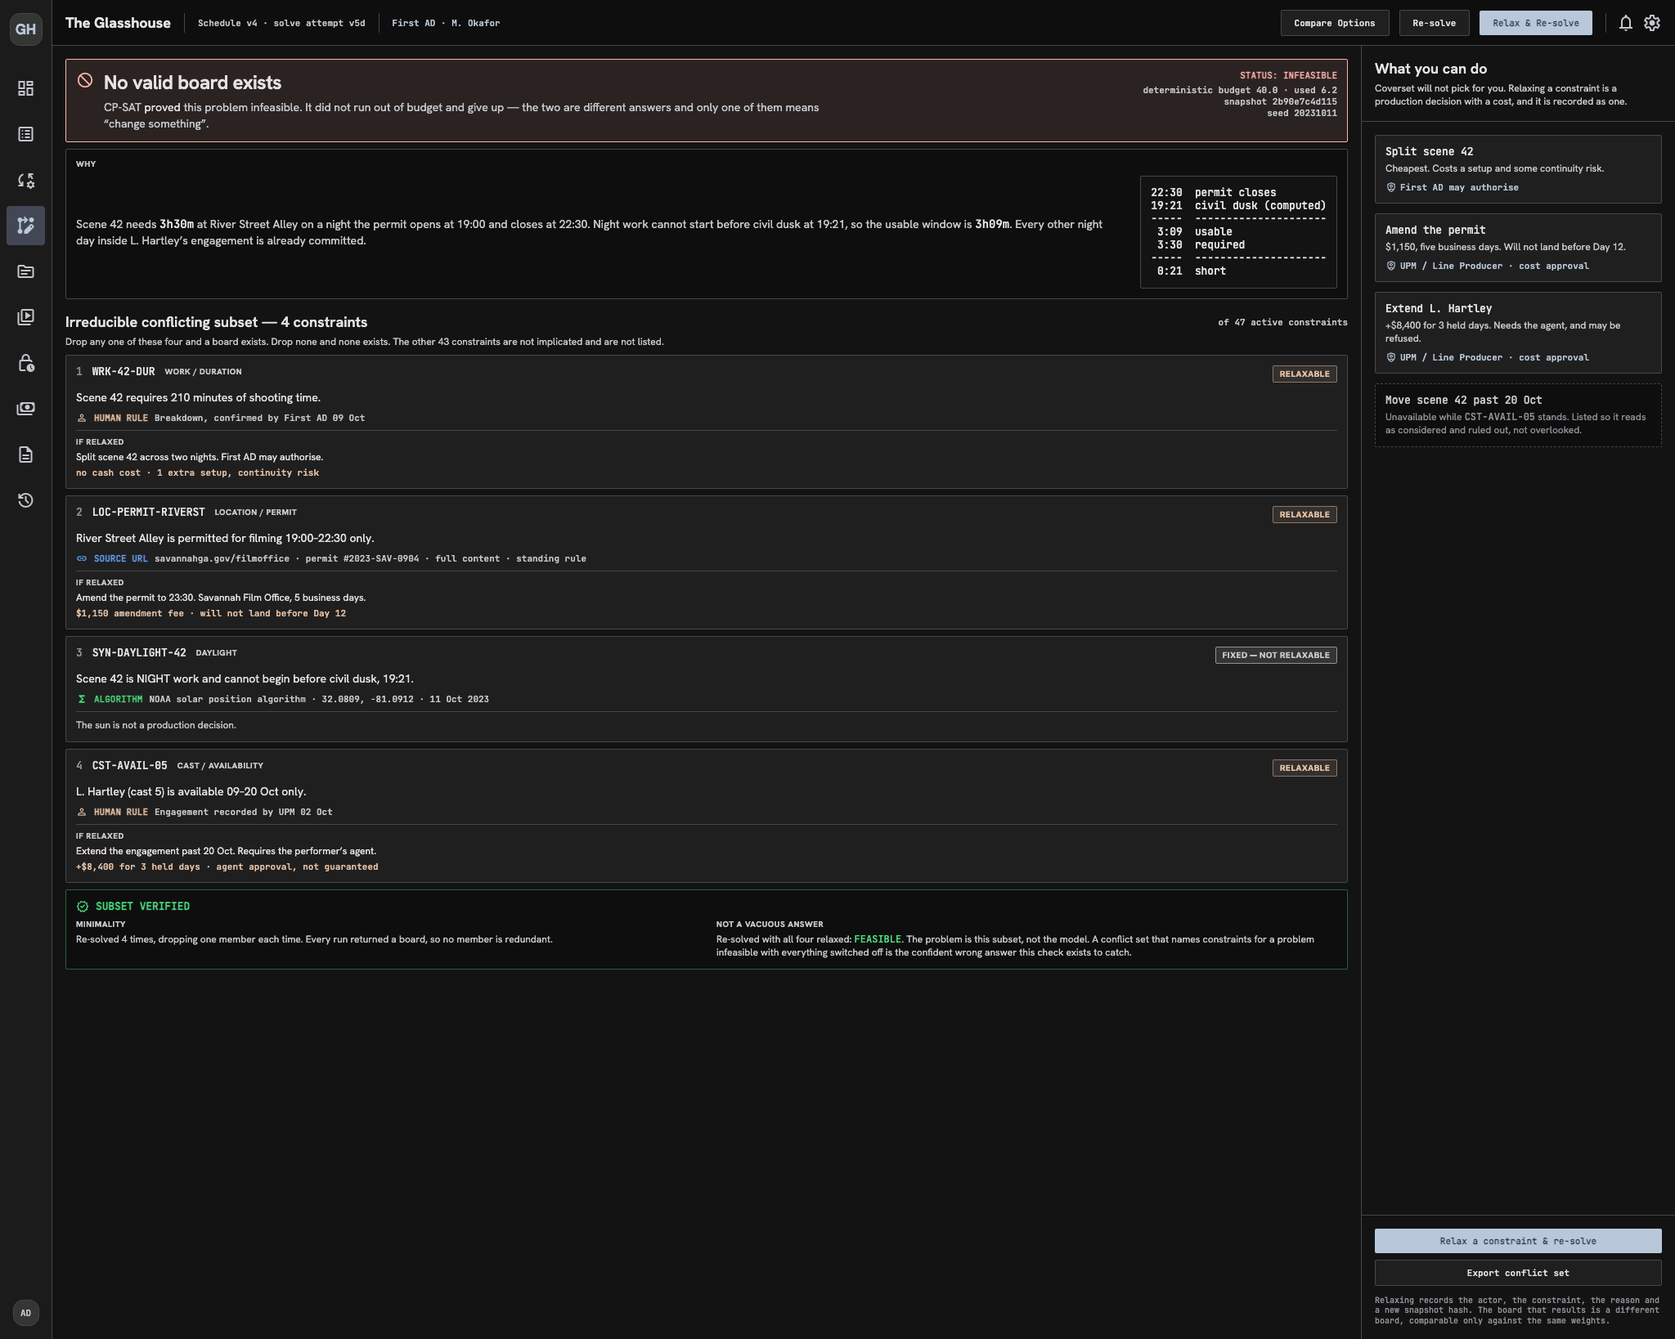
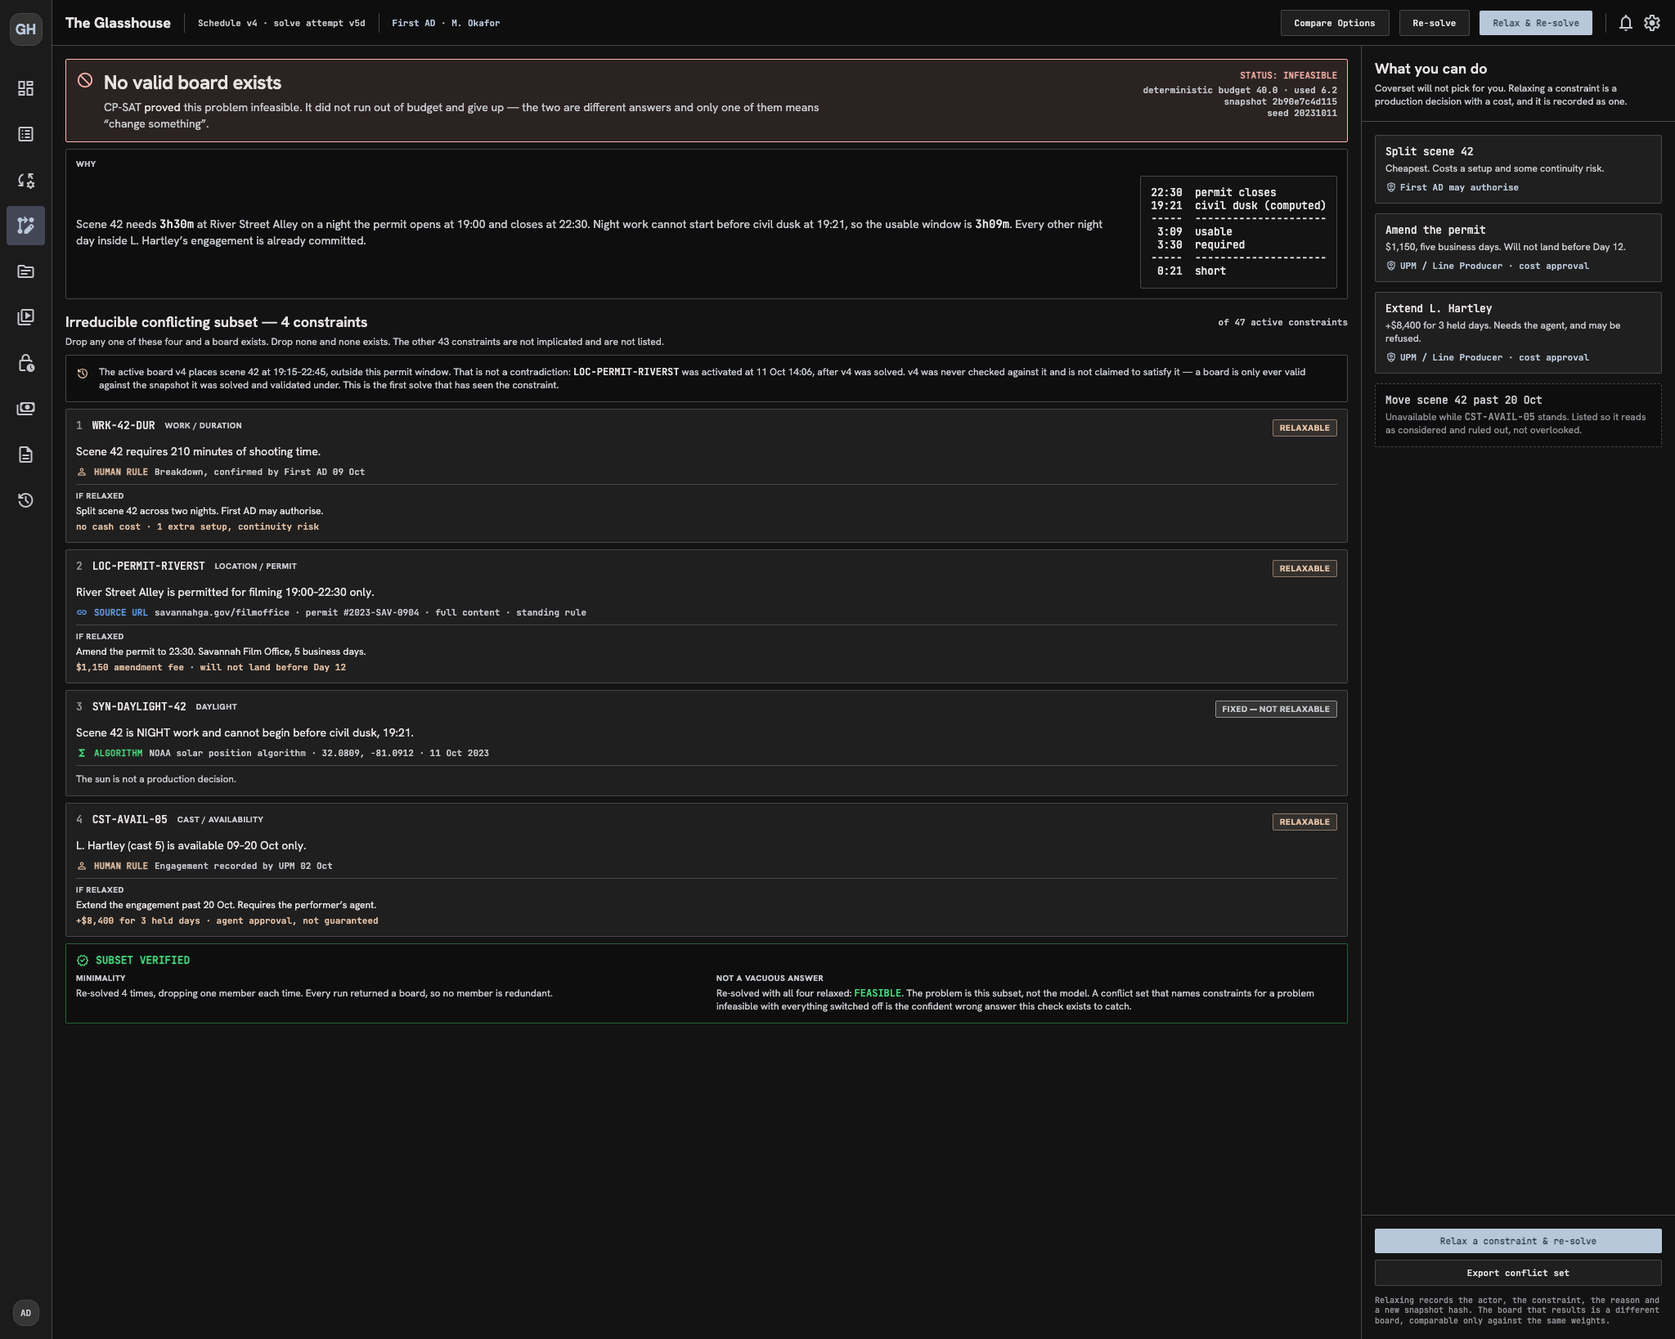
Fix three UI reference defects and close the gate's blind spot
Review of the v4 baseline found three problems. Each was reproduced before
anything was changed, and two were larger than reported.

**Clipping on 05-coverage-pickup was not narrow fields.** `SHOT TYPE` and
`COMPLETE BY` were cut off, `PRIORITY` was clipped too, and the inputs were
overflowing past the 400px panel edge entirely. Grid children default to
`min-width: auto`, so each input's intrinsic width forced its column wider than
the panel could hold and `w-full` never constrained anything. Fixed at that root
rather than by shortening the values, which would have been layout dictating
what the data may say: `SCENE` takes a 64px column so `SHOT TYPE` gets the rest,
and `COMPLETE BY` moves to its own full-width row, because three equal columns
cannot hold a twelve-character label, a dropdown and a nineteen-character date.

**The same select clipping exists on 02-scene-breakdown-review**, which the
review did not mention -- `Time of Day` rendered `DAY` cut off at the baseline.
A fixed `h-[28px]` is shorter than a native select's own metrics. Both are now
`h-[30px]` with an explicit small line-height, keeping the native chevron.

**11-cost-approval read "Board v5c is not schedulable"**, which is solver
vocabulary on an approval gate. That board is perfectly schedulable and merely
unapproved -- the same header says `report PASS` -- so the headline told a UPM
the arithmetic had failed when what was actually needed was their signature. It
[…]

diff --git a/docs/ui-sling/05-coverage-pickup.v4.html b/docs/ui-sling/05-coverage-pickup.v4.html
@@ -327,12 +327,12 @@
 <div class="bg-surface border border-[#5c63b8]/40 rounded-sm p-2">
 <div class="font-data-mono-sm text-data-mono-sm text-on-surface-variant leading-tight">This is <span class="text-on-surface">NIGHT</span> work. It cannot be placed on a day shoot &mdash; the replan must find a night day or add one.</div>
 </div>
-<div class="grid grid-cols-2 gap-4">
-<div class="space-y-1">
+<div class="grid grid-cols-[64px_minmax(0,1fr)] gap-3">
+<div class="space-y-1 min-w-0">
 <label class="font-label-caps text-label-caps text-on-surface-variant">SCENE</label>
 <input class="w-full h-[28px] bg-surface border border-outline-variant text-on-surface font-data-mono-sm px-2 focus:ring-1 focus:ring-primary focus:border-primary outline-none rounded-sm" disabled="" type="text" value="42"/>
 </div>
-<div class="space-y-1">
+<div class="space-y-1 min-w-0">
 <label class="font-label-caps text-label-caps text-on-surface-variant">SHOT TYPE</label>
 <input class="w-full h-[28px] bg-surface border border-outline-variant text-on-surface font-data-mono-sm px-2 focus:ring-1 focus:ring-primary focus:border-primary outline-none rounded-sm" type="text" value="Close-up (Reaction)"/>
 </div>
@@ -345,20 +345,21 @@
 <label class="font-label-caps text-label-caps text-on-surface-variant">LOCATION</label>
 <input class="w-full h-[28px] bg-surface border border-outline-variant text-on-surface font-data-mono-sm px-2 focus:ring-1 focus:ring-primary focus:border-primary outline-none rounded-sm" type="text" value="River Street Alley (Exterior)"/>
 </div>
-<div class="grid grid-cols-3 gap-4 border-t border-outline-variant pt-4 mt-4">
-<div class="space-y-1">
+<div class="grid grid-cols-2 gap-4 border-t border-outline-variant pt-4 mt-4">
+<div class="space-y-1 min-w-0">
 <label class="font-label-caps text-label-caps text-on-surface-variant">EST DURATION</label>
 <input class="w-full h-[28px] bg-surface border border-outline-variant text-on-surface font-data-mono-sm px-2 focus:ring-1 focus:ring-primary focus:border-primary outline-none rounded-sm" type="text" value="0:45"/>
 </div>
-<div class="space-y-1">
+<div class="space-y-1 min-w-0">
 <label class="font-label-caps text-label-caps text-on-surface-variant">PRIORITY</label>
-<select class="w-full h-[28px] bg-[#2a1414] border border-[#b82e2e] text-[#ff8a8a] font-data-mono-sm px-2 focus:ring-1 focus:ring-primary outline-none rounded-sm">
+<select class="w-full h-[30px] text-[11px] leading-none bg-[#2a1414] border border-[#b82e2e] text-[#ff8a8a] font-data-mono-sm px-2 focus:ring-1 focus:ring-primary outline-none rounded-sm">
 <option selected="">HIGH</option>
 <option>MEDIUM</option>
 <option>LOW</option>
 </select>
 </div>
-<div class="space-y-1">
+</div>
+<div class="space-y-1 min-w-0 mt-4">
 <label class="font-label-caps text-label-caps text-on-surface-variant">COMPLETE BY</label>
 <input class="w-full h-[28px] bg-surface border border-outline-variant text-on-surface font-data-mono-sm px-2 focus:ring-1 focus:ring-primary focus:border-primary outline-none rounded-sm" type="text" value="Day 12 (Wed 18 Oct)"/>
 </div>

diff --git a/docs/ui-sling/08-infeasible-conflict.v4.html b/docs/ui-sling/08-infeasible-conflict.v4.html
@@ -238,6 +238,10 @@ Scene 42 needs <span class="text-on-surface font-data-mono">3h30m</span> at Rive
 <span class="font-data-mono-sm text-data-mono-sm text-on-surface-variant">of 47 active constraints</span>
 </div>
 <p class="font-body-sm text-body-sm text-on-surface-variant -mt-1">Drop any one of these four and a board exists. Drop none and none exists. The other 43 constraints are not implicated and are not listed.</p>
+<div class="bg-surface-container-lowest border border-outline-variant rounded p-card_padding flex items-start gap-3">
+<span class="material-symbols-outlined text-[#e2c0a4] text-[16px] mt-0.5">history</span>
+<p class="font-body-sm text-body-sm text-on-surface-variant">The active board v4 places scene 42 at 19:15&ndash;22:45, outside this permit window. That is not a contradiction: <span class="font-data-mono text-on-surface">LOC-PERMIT-RIVERST</span> was activated at 11 Oct 14:06, after v4 was solved. v4 was never checked against it and is not claimed to satisfy it &mdash; a board is only ever valid against the snapshot it was solved and validated under. This is the first solve that has seen the constraint.</p>
+</div>
 
 <div class="bg-surface-container border border-outline-variant rounded p-card_padding">
 <div class="flex items-start justify-between gap-4 mb-2">

diff --git a/docs/ui-sling/11-cost-approval.v4.html b/docs/ui-sling/11-cost-approval.v4.html
@@ -203,7 +203,7 @@
 <div class="flex items-start gap-3">
 <span class="material-symbols-outlined text-[#f59e0b] text-[22px] mt-0.5">pending_actions</span>
 <div>
-<h1 class="font-headline-lg text-headline-lg text-on-surface">Board v5c is not schedulable</h1>
+<h1 class="font-headline-lg text-headline-lg text-on-surface">Board v5c cannot be selected yet</h1>
 <p class="font-body-md text-body-md text-on-surface-variant mt-1 max-w-4xl">It adds a shoot day, so it stays <span class="font-data-mono text-on-surface">pending_cost_approval</span> until a UPM or Line Producer records a decision. No call sheet can issue from it, and the monitor will not select it.</p>
 </div>
 </div>

diff --git a/docs/ui-sling/02-scene-breakdown-review.v4.html b/docs/ui-sling/02-scene-breakdown-review.v4.html
@@ -366,7 +366,7 @@
 <div class="grid grid-cols-2 gap-3">
 <div class="flex flex-col gap-1">
 <label class="font-data-mono-sm text-data-mono-sm text-on-surface-variant">Time of Day</label>
-<select class="w-full h-[28px] bg-background border border-outline-variant rounded px-2 font-body-sm text-on-surface focus:border-primary focus:ring-1 focus:ring-primary outline-none">
+<select class="w-full h-[30px] text-[11px] leading-none bg-background border border-outline-variant rounded px-2 font-body-sm text-on-surface focus:border-primary focus:ring-1 focus:ring-primary outline-none">
 <option>DAY</option>
 <option>NIGHT</option>
 <option>DAWN</option>

diff --git a/scripts/check_ui_reference.py b/scripts/check_ui_reference.py
@@ -54,6 +54,8 @@ DAYLIGHT_CLAIMS = [
     ("04-grounded-facts.v4.html", dt.date(2023, 10, 20), "sunset", "18:46"),
     ("06-call-sheet.v4.html", dt.date(2023, 10, 13), "sunrise", "07:26"),
     ("06-call-sheet.v4.html", dt.date(2023, 10, 13), "sunset", "18:54"),
+    ("06-call-sheet.v4.html", dt.date(2023, 10, 13), "civil_dusk", "19:19"),
+    ("08-infeasible-conflict.v4.html", dt.date(2023, 10, 11), "civil_dusk", "19:21"),
 ]
 
 # Strings a screen must carry, keyed to the requirement that obliges them. The point
@@ -65,6 +67,20 @@ REQUIRED = {
         ("OUT-003", r"\d{2}:\d{2}&ndash;\d{2}:\d{2}", "per-strip call/wrap window"),
         ("AUD-005", r"CONSTRAINT SNAPSHOT", "constraint snapshot hash"),
         ("DAY-001", r"Not retrieved", "daylight stated as computed"),
+    ],
+    "02-scene-breakdown-review.v4.html": [
+        ("ACT-002", r"Gemini produces candidate records only", "advisory-only boundary"),
+        ("ACT-002", r"Human validation required before solver scheduling",
+         "human validation before anything reaches the solver"),
+        ("CST-009", r"Accept Scene Record", "the accept action"),
+        ("CST-009", r"disabled[^>]*Resolve cast/location discrepancies",
+         "accept disabled while a cast id is unresolved -- an `ID: 5?` that reads as "
+         "accepted is the SARA/SARAH failure with a button on it"),
+        ("SCN-001", r"Script v2\.pdf &gt; pg 71", "source span on the record"),
+        ("SCN-001", r"<option>DAY</option>\s*<option>NIGHT</option>",
+         "day/night offered from the DayNight vocabulary"),
+        ("SCN-001", r"<option>DAWN</option>\s*<option>DUSK</option>",
+         "the twilight members the solver refuses rather than silently reclassifies"),
     ],
     "03-replan-options.v4.html": [
         ("AUD-006", r"parent v4", "schedule version lineage"),
@@ -92,12 +108,63 @@ REQUIRED = {
         ("OUT-004", r"Crew Call", "crew call"),
         ("OUT-006", r"Read-only", "recipients receive read-only"),
     ],
+    "08-infeasible-conflict.v4.html": [
+        ("SOL-003", r"Irreducible conflicting subset", "irreducible subset, not a generic failure"),
+        ("SOL-003", r"STATUS: INFEASIBLE", "infeasibility distinguished from budget exhaustion"),
+        ("SOL-011", r"RELAXABLE", "at least one relaxable constraint named"),
+        ("SOL-011", r"Re-solved with all four relaxed", "subset checked against a wholly relaxed solve"),
+        ("AUD-002", r"SOURCE URL", "url provenance"),
+        ("AUD-002", r"ALGORITHM", "algorithm provenance"),
+        ("AUD-002", r"HUMAN RULE", "human-rule provenance"),
+        ("AUD-005", r"snapshot [0-9a-f]{12}", "snapshot hash"),
+    ],
+    "09-constraint-entry.v4.html": [
+        ("CON-001", r"Candidate constraints", "plain English yields candidates"),
+        ("CON-002", r"A candidate is inert", "candidates do not reach the solver"),
+        ("CON-005", r"AWAITING ACTIVATION", "activation is a separate human act"),
+        ("CON-009", r"CANNOT BE TYPED YET", "weather policy needs human classification"),
+        ("CST-001", r"no such cast id", "near-miss cast name refused, not corrected"),
+        ("GRD-004", r"exempt from date coverage", "standing rule exemption"),
+        ("ACT-002", r"It does not decide, activate, schedule, or ground", "advisory boundary"),
+    ],
+    "10-lock-day-actuals.v4.html": [
+        ("LCK-001", r"Actual", "actuals recorded against plan"),
+        ("LCK-002", r"immutable", "a locked day cannot be reordered"),
+        ("LCK-003", r"PART-SHOT", "part-shot work survives the lock"),
+        ("ACT-006", r"may not rule on coverage", "Script Supervisor authority bounded"),
+        ("REV-008", r"Raise a finding", "a human may raise a finding directly"),
+        ("REV-001", r"It accepts nothing, rejects nothing", "the finding stays advisory"),
+    ],
+    "11-cost-approval.v4.html": [
+        ("PIK-010", r"pending_cost_approval", "board pending until approval is recorded"),
+        ("ACT-005", r"UPM / Line Producer", "approval authority named"),
+        ("ACT-008", r"CostApproval will record", "approval artifact fields"),
+        ("OUT-005", r"What changes, in production terms", "diff in production terms"),
+        ("OUT-005", r"Cast holding days", "holding delta"),
+        ("OUT-005", r"Company moves", "company move delta"),
+        ("SOL-005", r"declared weights", "priced under the declared weight set"),
+        ("AUD-004", r"No automated step in this chain created shoot work", "authorisation trace"),
+    ],
     "07-audit-log.v4.html": [
         ("AUD-005", r"snapshot [0-9a-f]{12}", "snapshot hash on the ledger"),
         ("ACT-009", r"Prior version v4, new version", "board selection records both versions"),
         ("SOL-007", r"re-measured off the finished board", "objective checked against the board"),
     ],
 }
+
+# Strings a screen must *not* carry. The inverse of REQUIRED, and needed for the same
+# reason: a screen can be wrong by saying something as easily as by omitting it, and
+# the ones worth catching are wrong in a way that reads as fluent.
+FORBIDDEN = {
+    "11-cost-approval.v4.html": [
+        ("PIK-010", r"not schedulable|infeasible|no valid schedule",
+         "solver-infeasibility vocabulary on an approval gate. A board pending cost "
+         "approval is perfectly schedulable and merely unapproved; saying it cannot be "
+         "scheduled tells a UPM the arithmetic failed when what is actually needed is "
+         "their signature"),
+    ],
+}
+
 
 # `MORNING`, `LATER`, `EVENING` all appeared as time-of-day values on screens whose
 # records feed a solver that only accepts DayNight members.
@@ -151,7 +218,11 @@ def check() -> list[str]:
             problems.append(f"{name}: missing")
             continue
         window = daylight_window(SAVANNAH, date)
-        moment = window.sunrise if kind == "sunrise" else window.sunset
+        moment = {
+            "sunrise": window.sunrise,
+            "sunset": window.sunset,
+            "civil_dusk": window.civil_dusk,
+        }[kind]
         computed = f"{moment:%H:%M}"
         if computed != claimed:
             problems.append(
@@ -169,6 +240,16 @@ def check() -> list[str]:
         for req_id, pattern, what in rules:
             if not re.search(pattern, body):
                 problems.append(f"{name}: {req_id} not evidenced -- no {what}")
+
+    for name, rules in FORBIDDEN.items():
+        path = UI / name
+        if not path.exists():
+            problems.append(f"{name}: missing")
+            continue
+        body = _text(path)
+        for req_id, pattern, why in rules:
+            if found := re.search(pattern, body, re.IGNORECASE):
+                problems.append(f"{name}: {req_id} -- {found.group(0)!r} is {why}")
 
     for path in sorted(UI.glob("*.v4.html")):
         for match in BAD_DAY_NIGHT.finditer(_text(path)):

diff --git a/docs/ui-sling/validation.md b/docs/ui-sling/validation.md
@@ -20,6 +20,10 @@ API credentials were supplied via environment for generation and are not stored 
 | Coverage pickup | `05-coverage-pickup.v4.html` | Advisory finding → human ruling → pickup |
 | Call sheet | `06-call-sheet.v4.html` | Second AD call sheet preview |
 | Audit log | `07-audit-log.v4.html` | Authority and provenance ledger |
+| Infeasible board | `08-infeasible-conflict.v4.html` | Irreducible conflicting constraint subset |
+| Constraint entry | `09-constraint-entry.v4.html` | Plain English → candidate typed constraints → activation |
+| Lock day / actuals | `10-lock-day-actuals.v4.html` | Script Supervisor records what was shot, raises findings |
+| Cost approval | `11-cost-approval.v4.html` | UPM/Line Producer rules on an added-day cost |
 
 `manifest.json`, `iteration-*-manifest.json`, `*.prompt.md`, and the `*.v2`/`*.v3` HTML
 are historical. Do not use them as a baseline.
@@ -37,6 +41,11 @@ device scale 1. Every other `*.png` here is historical and shows uncorrected scr
 Render at 2048 wide, not 1024 at 2× — these are fixed-viewport app shells that scroll
 internally, and a narrower viewport collapses the strip columns into each other.
 `04-grounded-facts` is rendered at 2048×2150 because it now carries six cards.
+
+Screens 08–11 were hand-authored against the shared theme block rather than generated,
+because Stitch invented scene, cast and location detail on every prior pass and each one
+then had to be corrected by hand anyway. They reuse screen 01's `<head>` verbatim, so
+the tokens, fonts and spacing scale cannot drift.
 
 ## How this is checked
 
@@ -93,6 +102,19 @@ screens had satisfied were missing. Rows below cite the requirement they check.
 | OUT-006 | Recipients are read-only | 06 | Recipients listed as `Viewers (Read-only)`. |
 | SOL-007 | Objective is re-measured off the finished board | 07 | Validator entry records the two readings agreeing. |
 | ACT-002 | An advisory agent is never a decider | 02, 05, 07 | Gemini rows are labelled advisory; every decision row names a human and a role. |
+| SOL-003 | Infeasibility yields the conflicting subset, not a generic failure | 08 | `STATUS: INFEASIBLE` distinguished from budget exhaustion; four named constraints with the arithmetic that conflicts. |
+| SOL-011 | A conflict set names at least one relaxable constraint | 08 | Three relaxable with costs, one fixed; verified minimal by re-solving once per member, and non-vacuous by re-solving with all four relaxed. |
+| AUD-002 | Every constraint traces to URL, algorithm, or human rule | 08 | All three provenance kinds appear and are labelled distinctly. |
+| CON-001 / CON-002 | Plain English yields candidates that cannot reach the solver | 09 | Four candidates typed from one spoken instruction; `A candidate is inert` until activated. |
+| CON-005 | Activation is a separate human act | 09 | `AWAITING ACTIVATION` on every candidate; activation panel names the actor and the snapshot change. |
+| CON-009 | Weather policy needs a human classification | 09 | `CANNOT BE TYPED YET` — feasibility vs objective cost is not chosen for the user. |
+| CST-001 | A near-miss cast name is refused, not corrected | 09 | `Sara — no such cast id`, refused rather than resolved to SARAH. |
+| LCK-001 / LCK-002 | Actuals recorded; the locked day is immutable | 10 | Planned vs actual per strip, actual call/wrap, and the immutability statement. |
+| LCK-003 | Part-shot work survives the lock | 10 | Scene 44 remainder becomes `WorkItem 44R`, keeping NIGHT and its cast. |
+| ACT-006 / REV-008 | Script Supervisor may record and raise, may not rule | 10 | Authority list is explicit; the raised finding goes to the Director and decides nothing. |
+| ACT-005 / ACT-008 / PIK-010 | Added-day cost stays pending until a UPM records it | 11 | `pending_cost_approval`; the `CostApproval` fields are shown before the decision is taken. |
+| OUT-005 | A schedule diff reads in production terms | 11 | Days, moved scenes, call times, pickups, holding, moves, overtime, turnaround — priced at the declared weights. |
+| AUD-004 | No automated process creates shoot work | 11 | Authorisation trace from advisory finding through two named humans to the board. |
 
 ## Corrections applied to v4
 
@@ -131,21 +153,29 @@ Against the generated screens, keyed to what they violated:
   published screenshots as well as locally. Nothing caught it because nothing rendered
   the files.
 
-## Not covered by any screen
+## Use-case coverage
 
-Four use cases have no screen at all. This is a gap in the reference set, not a
-statement about the requirements:
+Every use case in `SPEC.md` now has a screen:
 
-| Use case | Missing | Requirements with no UI |
-|---|---|---|
-| UC-06 | Infeasibility view — the irreducible conflicting constraint subset | SOL-003, SOL-011 |
-| UC-02 | Plain-English constraint entry → typed candidates → activation | CON-001, CON-002, CON-005 |
-| UC-07 | Lock the day / record actuals | LCK-001…004, ACT-006 |
-| UC-08 | UPM cost-approval view | ACT-008 |
-| UC-09 | Script Supervisor raising a finding from the floor | REV-008 |
+| Use case | Screen |
+|---|---|
+| UC-00 Build an MVP board from fixtures | 01 |
+| UC-01 Build the initial board from a screenplay | 02 |
+| UC-02 State a constraint in plain English | 09 |
+| UC-03 Replan when the world changes | 03 |
+| UC-04 Review coverage and order a pickup | 05 |
+| UC-05 Produce a call sheet | 06 |
+| UC-06 Diagnose an impossible schedule | 08 |
+| UC-07 Lock the day as the shoot progresses | 10 |
+| UC-08 Approve the cost of a pickup day | 11 |
+| UC-09 Raise a coverage concern from the floor | 10 |
 
-UC-06 is the most conspicuous: the conflict set is a headline capability and the words
-"infeasible", "conflict" and "irreducible" appear nowhere in the screen set.
+UC-07 and UC-09 share screen 10 deliberately: both are the Script Supervisor, on set,
+at the same moment. Splitting them would invent a navigation step the job does not have.
+
+A screen is not an implementation. These demonstrate that each journey has a coherent
+surface and that the authority boundaries survive contact with one; the requirements
+they exercise remain at whatever maturity `SPEC.md` records.
 
 ## Relationship to `docs/ui`
 
